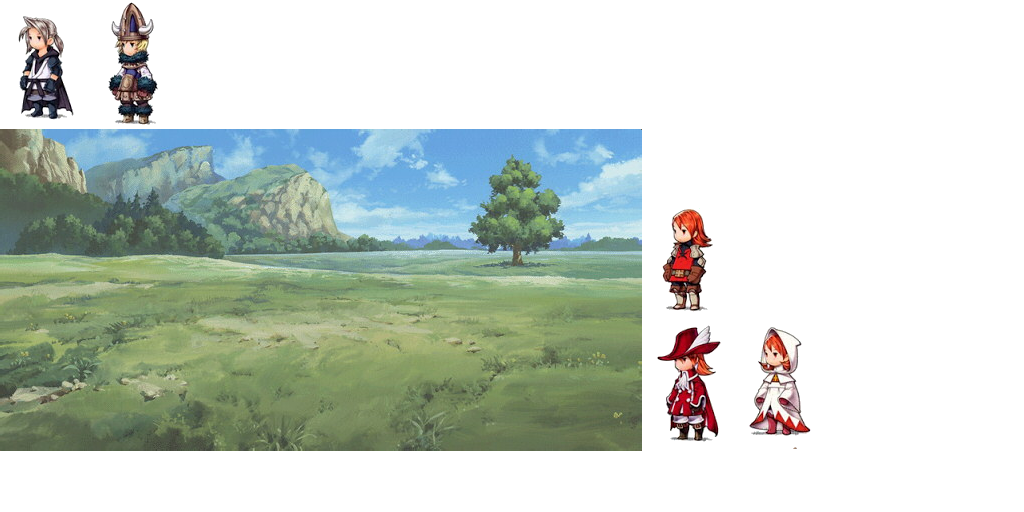
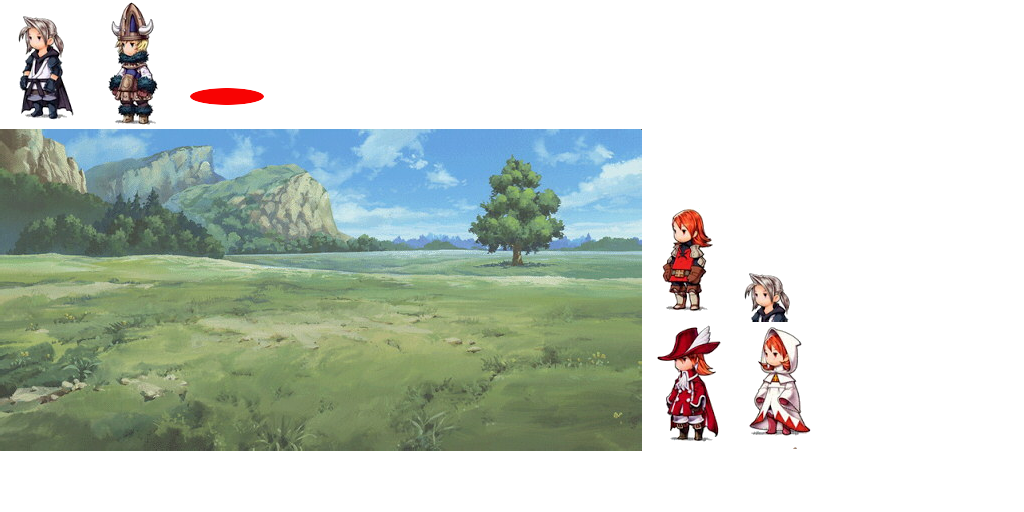
Updated

Changed region(s): [[0.7188, 0.5312, 0.7812, 0.625], [0.1875, 0.1562, 0.25, 0.2188]]

diff --git a/core/src/com/mygdx/custom/TargetGrid.java b/core/src/com/mygdx/custom/TargetGrid.java
@@ -1,21 +1,23 @@
 package com.mygdx.custom;
 
+import com.badlogic.gdx.Gdx;
 import com.badlogic.gdx.graphics.g2d.TextureAtlas;
 import com.badlogic.gdx.graphics.g2d.TextureRegion;
+import com.badlogic.gdx.scenes.scene2d.Actor;
 import com.badlogic.gdx.scenes.scene2d.Group;
 import com.mygdx.final_values.AssetList;
 
 public class TargetGrid extends Group {
     
-    private GJActor targetGrid00;
-    private GJActor targetGrid01;
-    private GJActor targetGrid02;
-    private GJActor targetGrid10;
-    private GJActor targetGrid11;
-    private GJActor targetGrid12;
-    private GJActor targetGrid20;
-    private GJActor targetGrid21;
-    private GJActor targetGrid22;
+    private GJUnitGrid targetGrid00;
+    private GJUnitGrid targetGrid01;
+    private GJUnitGrid targetGrid02;
+    private GJUnitGrid targetGrid10;
+    private GJUnitGrid targetGrid11;
+    private GJUnitGrid targetGrid12;
+    private GJUnitGrid targetGrid20;
+    private GJUnitGrid targetGrid21;
+    private GJUnitGrid targetGrid22;
     
     private TextureRegion target;
     private TextureAtlas atlas;
@@ -24,15 +26,41 @@ public class TargetGrid extends Group {
     public TargetGrid(){
         atlas = new TextureAtlas(AssetList.Assets.ATLAS_GAMESCREEN.getPath());
         target = atlas.findRegion(AssetList.Assets.ASSET_TARGET.getPath());
-        targetGrid00 = new GJActor(target);
-        targetGrid01 = new GJActor(target);
-        targetGrid02 = new GJActor(target);
-        targetGrid10 = new GJActor(target);
-        targetGrid11 = new GJActor(target);
-        targetGrid12 = new GJActor(target);
-        targetGrid20 = new GJActor(target);
-        targetGrid21 = new GJActor(target);
-        targetGrid22 = new GJActor(target);
+        targetGrid00 = new GJUnitGrid("00");
+        targetGrid01 = new GJUnitGrid("01");
+        targetGrid02 = new GJUnitGrid("02");
+        targetGrid10 = new GJUnitGrid("10");
+        targetGrid11 = new GJUnitGrid("11");
+        targetGrid12 = new GJUnitGrid("12");
+        targetGrid20 = new GJUnitGrid("20");
+        targetGrid21 = new GJUnitGrid("21");
+        targetGrid22 = new GJUnitGrid("22");
+        
+        this.addActor(targetGrid00);
+        this.addActor(targetGrid01);
+        this.addActor(targetGrid02);
+        this.addActor(targetGrid10);
+        this.addActor(targetGrid11);
+        this.addActor(targetGrid12);
+        this.addActor(targetGrid20);
+        this.addActor(targetGrid21);
+        this.addActor(targetGrid22);
+        
+        int row=0;
+        int col = 0;
+        
+        for (Actor actor:this.getChildren()){
+            Gdx.app.log("lem", "inside");
+            actor.setX((col*actor.getWidth()));
+            actor.setY(row*actor.getHeight());
+            if (col==2){
+                col =0;
+                row++;
+            }
+            else{
+                col++;    
+            }
+        } 
     }
 
 }

diff --git a/core/src/com/mygdx/custom/GJThumbnail.java b/core/src/com/mygdx/custom/GJThumbnail.java
@@ -1,0 +1,82 @@
+package com.mygdx.custom;
+
+import com.badlogic.gdx.graphics.g2d.Batch;
+import com.badlogic.gdx.graphics.g2d.TextureAtlas;
+import com.badlogic.gdx.scenes.scene2d.Actor;
+import com.badlogic.gdx.scenes.scene2d.Group;
+import com.badlogic.gdx.scenes.scene2d.InputEvent;
+import com.badlogic.gdx.scenes.scene2d.utils.ClickListener;
+import com.mygdx.final_values.AssetList;
+import com.mygdx.interfaces.PressCallback;
+
+/*Will hold Data 
+ * such as:
+ * Atlass File name : for creation of Actor (Unit)
+ * 
+ * */
+
+public class GJThumbnail extends Group{
+
+    private TextureAtlas atlas;
+    private GJActor thumbBG;
+    private GJActor thumbUnit;
+    
+    //create Separate Actor in the future
+    //will hold DAO
+    private GJActor unit;
+    
+    //for future use each unit will have separate altas
+    //for now use gamescreen atlas
+    private String unitPath;
+    
+    //not yet used
+    private String unitPathAtlas;
+    
+    private float alpha = 1.0f;
+    private boolean trigger = false;
+   
+    public GJThumbnail(String unitPath){
+        atlas = new TextureAtlas(AssetList.Assets.ATLAS_GAMESCREEN.getPath());
+        thumbBG = new GJActor(atlas.findRegion(AssetList.Assets.ASSET_THUMB_BG.getPath()));
+        thumbUnit = new GJActor(atlas.findRegion(unitPath));
+        unit = new GJClickableActor(atlas.findRegion(AssetList.Assets.ASSET_FIGHTER.getPath()));
+        
+        this.addActor(thumbBG);
+        this.addActor(thumbUnit);
+        
+        this.addListener(new ClickListener() {
+            @Override
+            public void clicked(InputEvent event, float x, float y) {
+                makeTransparent();
+            }
+        });
+    }
+    
+     @Override
+    public void draw(Batch batch, float parentAlpha) {
+        batch.setColor(1, 1, 1, alpha);
+        super.draw(batch, parentAlpha);
+        batch.setColor(1,1,1,1);
+    }
+     
+   private void makeTransparent(){
+       if (!trigger)
+           alpha = 0.5f;
+       else
+           alpha = 1.0f;
+       
+       trigger = !trigger;
+   }
+   
+   public boolean isPressed(){
+       return trigger;
+   }
+  
+   public class PressListener  implements PressCallback{
+       @Override
+       public Actor onPress() {
+           return unit;
+       }
+   }
+
+}

diff --git a/core/src/com/mygdx/screen/PreBattleScreen.java b/core/src/com/mygdx/screen/PreBattleScreen.java
@@ -7,9 +7,12 @@ import com.badlogic.gdx.scenes.scene2d.Group;
 import com.mygdx.custom.GJActor;
 import com.mygdx.custom.GJClickableActor;
 import com.mygdx.custom.GJScreen;
+import com.mygdx.custom.GJThumbnail;
+import com.mygdx.custom.TargetGrid;
 import com.mygdx.final_values.AssetList;
 import com.mygdx.final_values.ConstantPositions;
 import com.mygdx.game.MyGdxGame;
+import com.mygdx.interfaces.PressCallback;
 
 public class PreBattleScreen extends GJScreen{
 
@@ -17,30 +20,36 @@ public class PreBattleScreen extends GJScreen{
     private AssetManager assetManager;
     private TextureAtlas preBattleAtlas;
     private GJClickableActor fighter;
+    private TargetGrid targetGrid;
     
     private Group topPortion;
     private Group bottomPortion;
+    private GJThumbnail thumbnail;
     
     public PreBattleScreen(MyGdxGame game) {
         super(game);
+        targetGrid = new TargetGrid();
         preBattleAtlas = new TextureAtlas(AssetList.Assets.ATLAS_GAMESCREEN.getPath());
         background = new GJActor(preBattleAtlas.findRegion(AssetList.Assets.ASSET_BG_FIELD.getPath()));
-        fighter = new GJClickableActor(preBattleAtlas.findRegion(AssetList.Assets.ASSET_FIGHTER.getPath()));
         
         topPortion = new Group();
         
+        //in the future must be in DAO
+        thumbnail = new GJThumbnail(AssetList.Assets.ASSET_THUMB_FIGHTER.getPath());
+        
         topPortion.setWidth(MyGdxGame.WIDTH);
         topPortion.setHeight(MyGdxGame.HEIGHT/2);
-        
-        topPortion.addActor(background);
-        topPortion.addActor(fighter);
-        
+
         topPortion.setY(MyGdxGame.HEIGHT-topPortion.getHeight());
         fighter.setScale(0.8f);
         fighter.setY(topPortion.getHeight()/2 - (fighter.getHeight()/2+ConstantPositions.SPACING_XSMALL));
+
+        topPortion.addActor(background);
+        topPortion.addActor(targetGrid);
+       
+        topPortion.addActor(thumbnail);
         
         stage.addActor(topPortion);
-        
         Gdx.input.setInputProcessor(stage);
     }
     

diff --git a/core/src/com/mygdx/custom/GJUnitGrid.java b/core/src/com/mygdx/custom/GJUnitGrid.java
@@ -1,0 +1,31 @@
+package com.mygdx.custom;
+
+import com.badlogic.gdx.graphics.g2d.TextureAtlas;
+import com.badlogic.gdx.graphics.g2d.TextureRegion;
+import com.badlogic.gdx.scenes.scene2d.Actor;
+import com.badlogic.gdx.scenes.scene2d.Group;
+import com.mygdx.final_values.AssetList;
+
+public class GJUnitGrid extends Group{
+
+    private GJActor targetGrid;
+    private TextureRegion targetCircle;
+    private TextureAtlas atlas;
+    
+    public GJUnitGrid(String name) {
+        atlas = new TextureAtlas(AssetList.Assets.ATLAS_GAMESCREEN.getPath());
+        targetCircle = atlas.findRegion(AssetList.Assets.ASSET_TARGET.getPath());
+        
+        targetGrid = new GJActor(targetCircle);
+        this.addActor(targetGrid);
+        this.setWidth(targetCircle.getRegionWidth());
+        this.setHeight(targetCircle.getRegionHeight());
+        this.setName(name);
+    }
+    
+    public void addUnit(Actor unit){
+        this.addActor(unit);
+        unit.setName("unit");
+    }
+    
+}

diff --git a/core/src/com/mygdx/final_values/AssetList.java b/core/src/com/mygdx/final_values/AssetList.java
@@ -13,7 +13,9 @@ public class AssetList {
         ASSET_VIKING("viking"),
         ASSET_WARRIOR("warrior"),
         ASSET_BG_FIELD("battleback"),
-        ASSET_TARGET("target");
+        ASSET_TARGET("target"),
+        ASSET_THUMB_BG("thumb-bg"),
+        ASSET_THUMB_FIGHTER("thumb-fighter");
         
         private String filepath;
 

diff --git a/core/src/com/mygdx/interfaces/PressCallback.java b/core/src/com/mygdx/interfaces/PressCallback.java
@@ -1,0 +1,7 @@
+package com.mygdx.interfaces;
+
+import com.badlogic.gdx.scenes.scene2d.Actor;
+
+public interface PressCallback {
+    public Actor onPress();
+}
